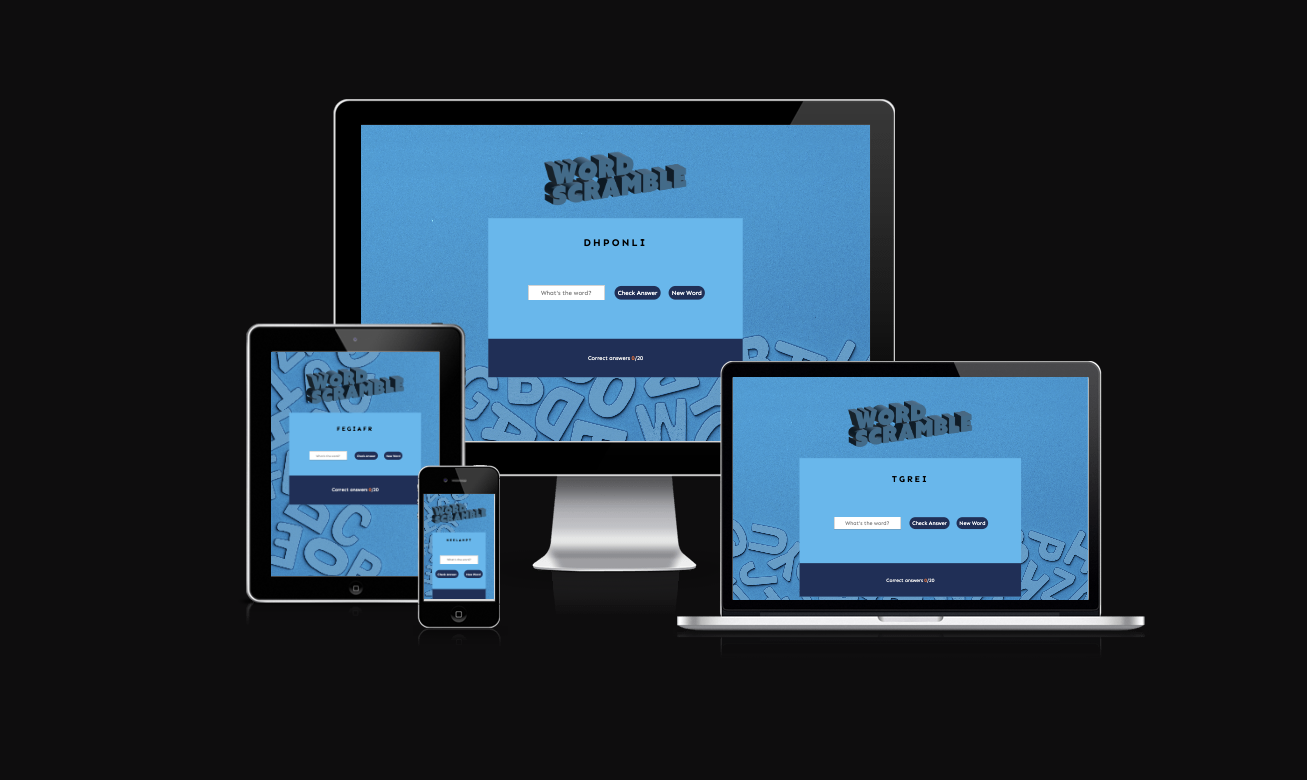
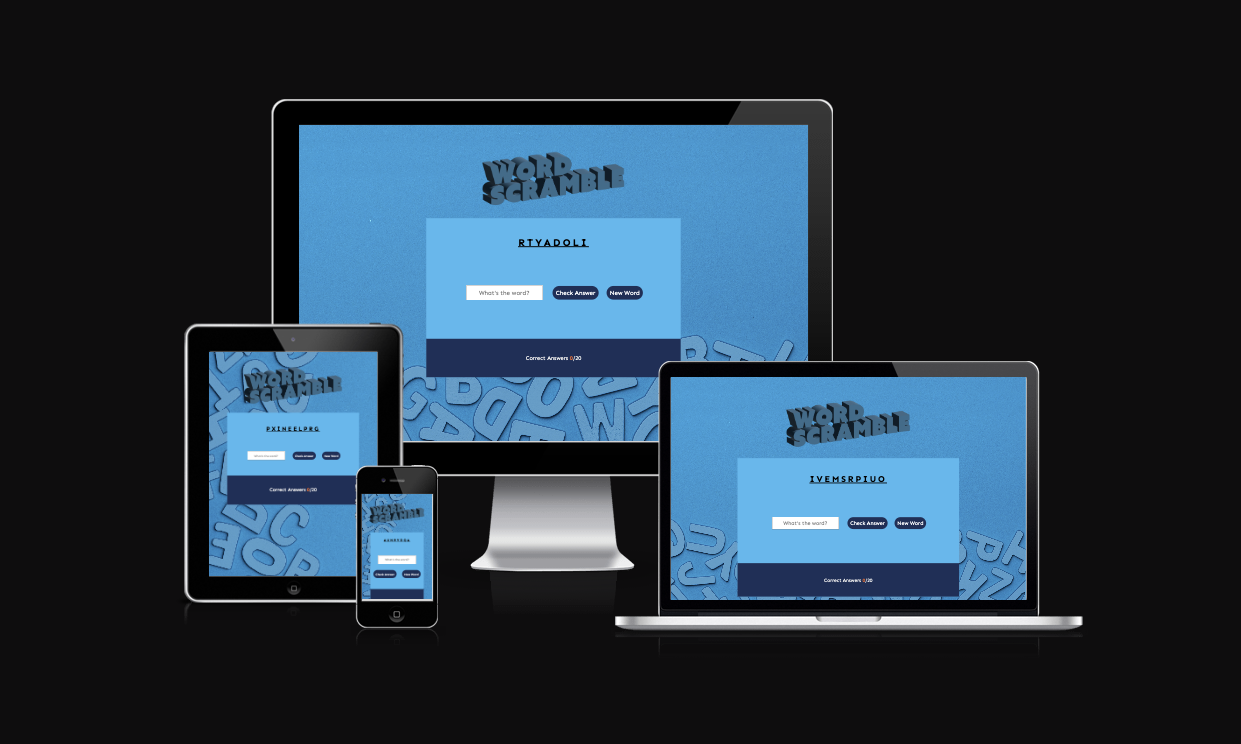
Add content to readme

Changed region(s): [[0.1225, 0.1237, 0.888, 0.8656]]

diff --git a/README.md b/README.md
@@ -10,7 +10,7 @@ They player provides their answer in the input field and clicks check answer to 
 
 Each game consists of 20 words.
 
-<h2 align="center"><img src="https://ui.dev/amiresponsive?url=https://ceciliasg.github.io/pp2_wordScramble/"></h2>
+<h2 align="center"><img src="documentation/showcase.png"></h2>
 
 ## User Experience (UX)
 
